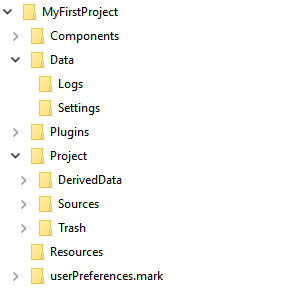
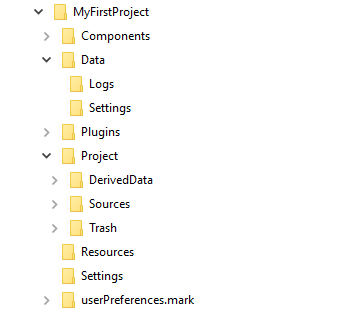
edited users/groups - added settings description

diff --git a/website/pages/en/index.js b/website/pages/en/index.js
@@ -216,7 +216,7 @@ const Classic = props => (
 		imageAlign: 'left',
       },
 	  {
-        content: '[Maintenance and Security Center](MSC/overview.html)<br>[Backup and Restore](Backup/overview.html)',
+        content: '[Maintenance and Security Center](MSC/overview.html)<br>[Backup and Restore](Backup/overview.html)<br>[Users and Groups](Users/overview.html)',
         title: <translate>Administration</translate>,
       }
 

diff --git a/docs/Users/overview.md b/docs/Users/overview.md
@@ -1,6 +1,6 @@
 ---
 id: overview
-title: Access system basics
+title: Overview
 ---
 
 If more than one person uses a database, which is usually the case in client-server architecture or Web interfaces, you need to control access or provide different features according to the connected users. It is also essential to provide security for sensitive data. You can provide this security by assigning passwords to users and creating access groups that have different levels of access to information in the database or to database operations.
@@ -8,16 +8,45 @@ If more than one person uses a database, which is usually the case in client-ser
 > For an overview of 4D's security features, see the [4D Security guide](https://blog.4d.com/4d-security-guide/).
 
 
-## Users and groups feature activation
 
-The following rules are applied in project databases, depending on the running 4D environment:
+
+
+## Assigning group access
+
+4D’s password access system is based on users and groups. You create users and assign passwords, put users in groups, and assign each group access rights to appropriate parts of the database. 
+
+Groups can then be assigned access privileges to specific parts or features of the database (Design access, HTTP server, SQL server, etc.), or any custom part. 
+
+The following example shows Design and Runtime explorer access rights being assigned to the "Devs" group: 
+
+![](assets/en/Users/Access1.png)
+
+
+
+## Activating access control
+
+You initiate the 4D password access control system in client-server by **assigning a password to the Designer**.
+
+Until you give the Designer a password, all database access are done with the Designer's access rights, even if you have set up users and groups (when the database opens, no ID is required). Any part of the database can be opened.
+
+When a password is assigned to the Designer, all the access privileges take effect. In order to connect to the database, remote users must enter a password.
+
+To disable the password access system, you just need to remove the Designer password. 
+
+
+## Users and groups in project architecture
+
+In project databases (.4DProject or .4dz files), 4D users and groups can be configured in both single-user and client-server environments. However, access control is only effective in 4D Server databases. The following table lists the main users and groups features and their availability:
 
 ||4D Developer (single-user)|4D Server|  
 |---|---|---|
 |Adding/editing users and groups|yes|yes|
-|Assigning access to groups|yes|yes|
-|User management|no (all users are Designer)|yes|
-|Access control once the Designer has been assigned a password|no|yes|
+|Assigning user/group access to servers|yes|yes|
+|User identification|no (all users are Designer)|yes|
+|Access control once the Designer has been assigned a password|no (all access are Designer)|yes|
+
+
+
 
 
 ## Toolbox editor
@@ -26,27 +55,18 @@ The editors for users and groups are located in the toolbox of 4D. These editors
 
 ![](assets/en/Users/editor.png)
 
-> Users and groups can also be handled using 4D commands such as [EDIT ACCESS](https://doc.4d.com/4Dv18/4D/18/EDIT-ACCESS.301-4504687.en.html).
+> Users and groups editor can be displayed at runtime using the [EDIT ACCESS](https://doc.4d.com/4Dv18/4D/18/EDIT-ACCESS.301-4504687.en.html) command. 
 
 
 
-## Assigning group access
+## Directory.json file
 
-4D’s password access system is based on users and groups. You create users and assign passwords, put users in groups, and assign each group access rights to appropriate parts of the database. Groups can be assigned access privileges to specific parts or features of the database, either through the interface, or through a customized system with the language. 
+Users, groups, as well as their access rights are stored in a specific database file named **directory.json**.
 
-The following example shows Design and Runtime explorer access rights being assigned to the "Devs" group: 
+This file can be stored at the following locations:
 
-![](assets/en/Users/Access1.png)
+- in the user database settings folder, i.e. in the "Settings" folder at the same level as the "Project" folder. These settings are used by default for the database. 
+- in the data settings folder,  i.e. in the "Settings" folder in the "Data" folder. If a directory.json file is present at this location, it takes priority over the file in the user database settings folder. This feature allows you to define custom/local Users and Groups configurations. The custom configuration will left untouched by a database upgrade.  
 
+> If users and groups management is not active, the directory.json is not created.
 
-## Activating access control
-
-You initiate the 4D password access control system by **assigning a password to the Designer**.
-
-Until you give the Designer a password, all database access are done with the Designer's access rights, even if you have set up users and groups (when the database opens, no ID is required). Any part of the database is opened.
-
-When a password is assigned to the Designer, all the access privileges take effect. In order to open the database, users must enter a password.
-
-> Warning: Do not forget the Designer’s password! If you do, you will be unable to open the database in the Design environment.
-
-To disable the password access system, you just need to remove the Designer password. 

diff --git a/docs/Project/architecture.md b/docs/Project/architecture.md
@@ -139,12 +139,13 @@ data.match|(internal) UUID matching table number|XML
 
 This folder contains **user settings files for data** used for database administration.
 
-> These settings take priority over **user settings files** and **structure settings** files. 
+> These settings take priority over **[user settings files](#settings-folder-1)** and **structure settings** files. 
 
 Contents|Description|Format|
 ----|----|---|
 Backup.4DSettings|Database backup settings, used to set the [backup options](Backup/settings.md)) when the database is run with this data file. Keys concerning backup configuration are described in the *4D XML Keys Backup* manual.|XML|
 settings.4DSettings|Custom database settings for this data file|XML
+directory.json|Description of 4D groups, users, and their access rights when the database is run with this data file.|JSON|
 
 
 
@@ -164,7 +165,7 @@ The Logs folder contains all log files used by the project. Log files include, i
 
 This folder contains **user settings files** used for database administration. File are added to the folder when necessary. 
 
-> If a data settings file exists in a Settings folder in the data folder, it takes priority over user settings file. 
+> If a data settings file exists in a Settings folder [in the data folder](#settings-folder), it takes priority over user settings file. 
 
 Contents|Description|Format|
 ----|----|---|
